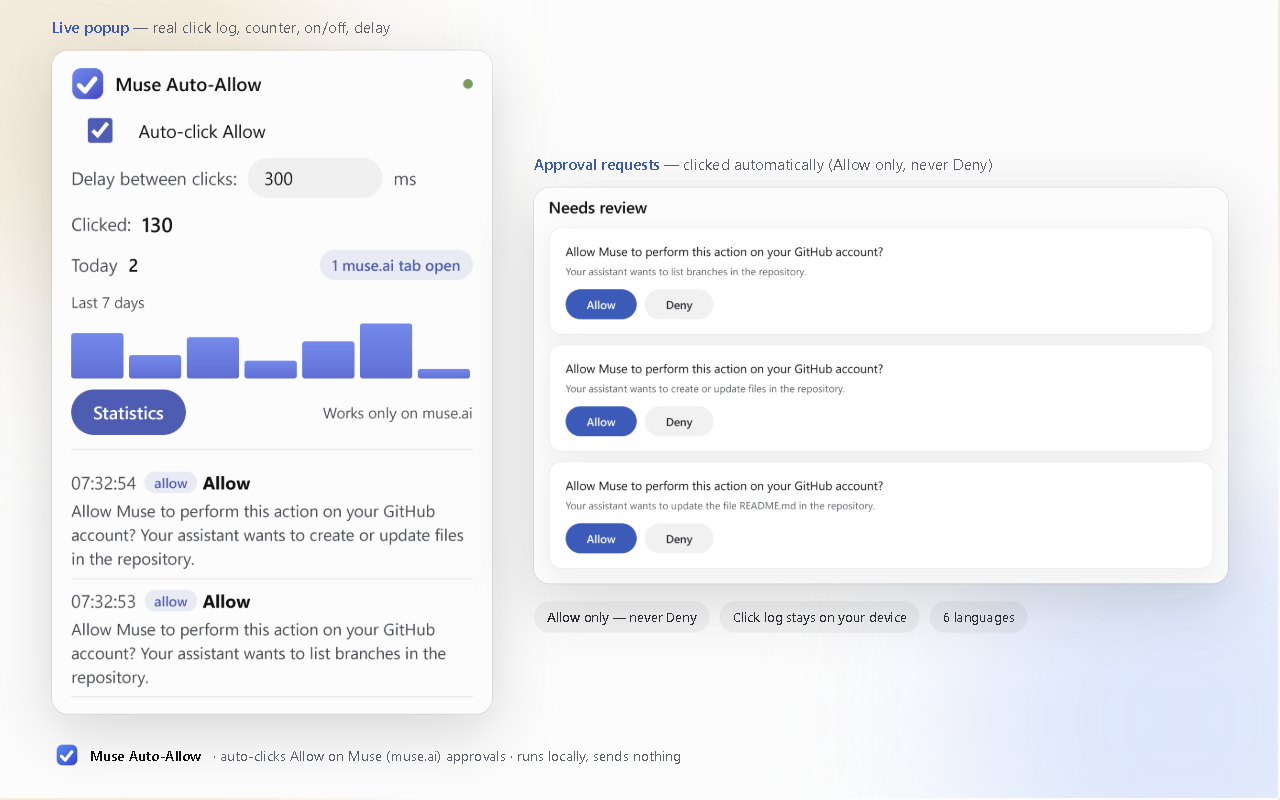
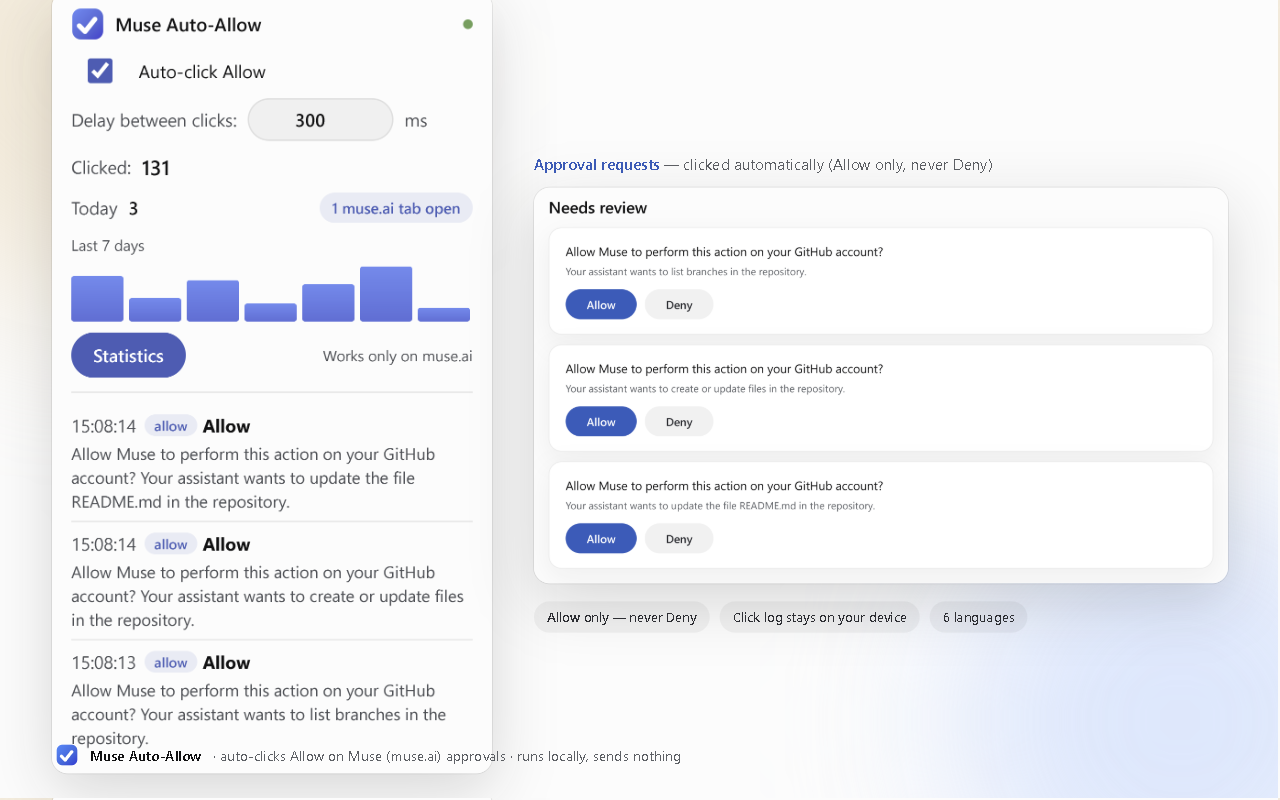
polish(v1.5.0): store-spec screenshot3 stage (1280x800), two-zone showcase marquee, popup micro-fixes + LISTING refresh
- screenshot3-popup.png recomposed as a 1280x800 stage shot (was 680x1964 portrait, failed CWS spec)
- marquee1400x560 redesigned two-zone (copy left, product mini-card right); all 6 store assets now exact-spec
- popup: last log row border removed, word-boundary truncation, delay input affordance (border + centered bold)
- LISTING.md: version 1.5.0 refs + full asset table + neutral demo-data policy

Changed region(s): [[0.0312, 0.0, 0.375, 0.9375], [0.25, 0.25, 0.375, 0.2812], [0.2188, 0.125, 0.25, 0.1562]]

diff --git a/assets/marquee.html b/assets/marquee.html
@@ -5,35 +5,76 @@
 <style>
   html, body { margin: 0; width: 1400px; height: 560px; overflow: hidden; background: #fcfcfc;
                color: #111112; font-family: "Optimistic", "optimisticAI", -apple-system, BlinkMacSystemFont, "Segoe UI", system-ui, sans-serif; }
-  .blob { position: absolute; border-radius: 50%; filter: blur(70px); }
-  .b1 { width: 520px; height: 520px; background: #f3d9b4; left: -160px; top: -200px; opacity: .5; }
-  .b2 { width: 500px; height: 500px; background: #cfe2ff; right: -160px; bottom: -220px; opacity: .8; }
-  .wrap { position: relative; height: 100%; display: flex; flex-direction: column; align-items: center;
-          justify-content: center; gap: 0; text-align: center; }
-  .tile { width: 124px; height: 124px; border-radius: 32px; box-shadow: 0 14px 40px rgba(0,64,220,.18); }
-  h1 { margin: 22px 0 0; font-size: 52px; font-weight: 500; letter-spacing: -0.015em; }
-  p { margin: 12px 0 0; color: #4a4e54; font-size: 20px; }
-  .chips { display: flex; gap: 12px; margin-top: 26px; }
-  .chip { background: rgba(17,17,18,.07); color: #2c2e33; font-size: 15px; font-weight: 500;
-          padding: 9px 18px; border-radius: 999px; }
+  .blob { position: absolute; border-radius: 50%; filter: blur(80px); }
+  .b1 { width: 560px; height: 560px; background: #f3d9b4; left: -190px; top: -240px; opacity: .5; }
+  .b2 { width: 560px; height: 560px; background: #cfe2ff; right: -170px; bottom: -260px; opacity: .85; }
+  .wrap { position: relative; height: 100%; display: flex; align-items: center; gap: 72px;
+          padding: 0 120px; box-sizing: border-box; }
+  .copy { flex: 1 1 auto; min-width: 0; }
+  .tile { width: 112px; height: 112px; border-radius: 28px; box-shadow: 0 14px 40px rgba(0,64,220,.20); }
+  h1 { margin: 26px 0 0; font-size: 58px; font-weight: 500; letter-spacing: -0.015em; }
+  p { margin: 14px 0 0; color: #3c4046; font-size: 21px; }
+  .chips { display: flex; gap: 12px; margin-top: 28px; flex-wrap: wrap; }
+  .chip { background: rgba(17,17,18,.08); color: #232527; font-size: 16px; font-weight: 500;
+          padding: 10px 20px; border-radius: 999px; border: 1px solid rgba(17,17,18,.12); }
+  .card { flex: 0 0 400px; background: #fff; border-radius: 20px; padding: 20px 22px 22px;
+          box-shadow: 0 24px 70px rgba(17,17,18,.16), 0 0 0 1px rgba(17,17,18,.07); }
+  .chead { display: flex; align-items: center; gap: 10px; }
+  .chead .mini { width: 34px; height: 34px; border-radius: 9px; }
+  .chead b { font-size: 15px; font-weight: 600; }
+  .dot { margin-left: auto; width: 9px; height: 9px; border-radius: 50%; background: #31a24c; }
+  .crow { display: flex; align-items: center; gap: 9px; margin-top: 16px; font-size: 13px; color: #3c4046; }
+  .cbx { width: 30px; height: 17px; border-radius: 999px; background: #0064e0; position: relative; flex: 0 0 auto; }
+  .cbx::after { content: ""; position: absolute; right: 2px; top: 2px; width: 13px; height: 13px; border-radius: 50%; background: #fff; }
+  .clog { margin-top: 14px; border-top: 1px solid rgba(17,17,18,.10); }
+  .cli { display: flex; align-items: baseline; gap: 8px; padding: 9px 0;
+         border-bottom: 1px solid rgba(17,17,18,.08); font-size: 12.5px; }
+  .cli:last-child { border-bottom: 0; }
+  .cli .t { color: #6a6e74; font-variant-numeric: tabular-nums; }
+  .pill { background: rgba(0,100,224,.14); color: #0047a3; font-size: 11px; font-weight: 600;
+          padding: 2px 8px; border-radius: 999px; }
+  .cli .ctx { color: #3c4046; overflow: hidden; text-overflow: ellipsis; white-space: nowrap;
+              flex: 1 1 auto; min-width: 0; }
+  .cbtn { display: inline-block; margin-top: 16px; background: #005abf; color: #fff; font-size: 13px;
+          font-weight: 600; padding: 8px 18px; border-radius: 999px; }
 </style>
 </head>
 <body>
   <div class="blob b1"></div><div class="blob b2"></div>
   <div class="wrap">
-    <svg class="tile" viewBox="0 0 512 512" xmlns="http://www.w3.org/2000/svg">
-      <defs><linearGradient id="bg" x1="72" y1="60" x2="452" y2="464" gradientUnits="userSpaceOnUse">
-        <stop offset="0" stop-color="#0082FB"/><stop offset="0.62" stop-color="#0064E0"/><stop offset="1" stop-color="#0040DC"/>
-      </linearGradient></defs>
-      <rect x="16" y="16" width="480" height="480" rx="133" fill="url(#bg)"/>
-      <path d="M118 284 L208 374 L362 182" fill="none" stroke="#fff" stroke-width="70" stroke-linecap="round" stroke-linejoin="round"/>
-    </svg>
-    <h1>Muse Auto-Allow</h1>
-    <p>Approvals on autopilot &mdash; every Allow, instantly. Local-only, encrypted at rest.</p>
-    <div class="chips">
-      <span class="chip">Allow only &mdash; never Deny</span>
-      <span class="chip">Runs locally, sends nothing</span>
-      <span class="chip">6 languages</span>
+    <div class="copy">
+      <svg class="tile" viewBox="0 0 512 512" xmlns="http://www.w3.org/2000/svg">
+        <defs><linearGradient id="bg" x1="72" y1="60" x2="452" y2="464" gradientUnits="userSpaceOnUse">
+          <stop offset="0" stop-color="#0082FB"/><stop offset="0.62" stop-color="#0064E0"/><stop offset="1" stop-color="#0040DC"/>
+        </linearGradient></defs>
+        <rect x="16" y="16" width="480" height="480" rx="133" fill="url(#bg)"/>
+        <path d="M118 284 L208 374 L362 182" fill="none" stroke="#fff" stroke-width="70" stroke-linecap="round" stroke-linejoin="round"/>
+      </svg>
+      <h1>Muse Auto-Allow</h1>
+      <p>Approvals on autopilot &mdash; every Allow, instantly.</p>
+      <div class="chips">
+        <span class="chip">Allow only &mdash; never Deny</span>
+        <span class="chip">Local-only, sends nothing</span>
+        <span class="chip">6 UI languages</span>
+      </div>
+    </div>
+    <div class="card">
+      <div class="chead">
+        <svg class="mini" viewBox="0 0 512 512" xmlns="http://www.w3.org/2000/svg">
+          <defs><linearGradient id="bg2" x1="72" y1="60" x2="452" y2="464" gradientUnits="userSpaceOnUse">
+            <stop offset="0" stop-color="#0082FB"/><stop offset="0.62" stop-color="#0064E0"/><stop offset="1" stop-color="#0040DC"/>
+          </linearGradient></defs>
+          <rect x="16" y="16" width="480" height="480" rx="133" fill="url(#bg2)"/>
+          <path d="M118 284 L208 374 L362 182" fill="none" stroke="#fff" stroke-width="70" stroke-linecap="round" stroke-linejoin="round"/>
+        </svg>
+        <b>Muse Auto-Allow</b>
+      </div>
+      <div class="crow"><span class="cbx"></span>Auto-click Allow</div>
+      <div class="clog">
+        <div class="cli"><span class="t">15:01</span><span class="pill">allow</span><span class="ctx">Approved pull request read &mdash; demo-project</span></div>
+        <div class="cli"><span class="t">14:57</span><span class="pill">allow</span><span class="ctx">Approved branch create &mdash; sample-app</span></div>
+      </div>
+      <span class="cbtn">Statistics</span>
     </div>
   </div>
 </body>

diff --git a/extension/popup.html b/extension/popup.html
@@ -34,13 +34,14 @@
   .row { display: flex; align-items: center; gap: 8px; margin: 8px 0; }
   label.sw { display: flex; align-items: center; gap: 8px; cursor: pointer; user-select: none; }
   input[type=checkbox] { width: 34px; height: 18px; accent-color: var(--blue); cursor: pointer; }
-  input[type=number] { width: 74px; background: var(--fill); color: var(--ink); border: 0; border-radius: 999px;
-                       padding: 5px 12px; font: inherit; }
+  input[type=number] { width: 80px; background: var(--fill); color: var(--ink); border: 1px solid var(--line); border-radius: 999px;
+                       padding: 5px 12px; font: inherit; font-weight: 500; text-align: center; }
   .muted { color: var(--muted); }
   b.count { color: var(--ink); font-size: 15px; font-weight: 500; display: inline-block; transition: transform .18s ease; }
   b.count.pop { transform: scale(1.25); }
   .log { margin-top: 10px; border-top: 1px solid var(--line); padding-top: 8px; max-height: 220px; overflow: auto; }
   .item { padding: 6px 0; border-bottom: 1px solid var(--line); animation: slidein .22s ease; }
+  .item:last-child { border-bottom: 0; }
   @keyframes slidein { from { opacity: 0; transform: translateY(-4px); } to { opacity: 1; transform: none; } }
   .item .t { color: var(--muted); font-variant-numeric: tabular-nums; margin-right: 6px; }
   .item .c { color: var(--muted); font-size: 12px; margin-top: 2px; }

diff --git a/extension/popup.js b/extension/popup.js
@@ -57,7 +57,8 @@ async function renderLog(log) {
   $('log').innerHTML = items.length
     ? items.map(({ e, plain }) => {
         const k = e.kind || 'allow';
-        const ctxS = plain.length > 170 ? plain.slice(0, 170) + '…' : plain;
+        let ctxS = plain;
+        if (ctxS.length > 170) { ctxS = ctxS.slice(0, 170); const sp = ctxS.lastIndexOf(' '); if (sp > 130) ctxS = ctxS.slice(0, sp); ctxS += '…'; }
         const lbl = String(e.label || '');
         const lblS = lbl.length > 40 ? lbl.slice(0, 40) + '…' : lbl;
         return '<div class="item"><span class="t" title="' + esc(localFull(e.at)) + '">' + esc(localTime(e.at)) + '</span>' +

diff --git a/extension/content.js b/extension/content.js
@@ -1,4 +1,4 @@
-// Muse Auto-Allow — content script (v1.2.0, security-hardened).
+// Muse Auto-Allow — content script (v1.5.0, security-hardened — redteam v1–v3).
 // Automatically clicks "Allow" on Muse (muse.ai) approval requests.
 //
 // Click paths, in priority order:

diff --git a/store/LISTING.md b/store/LISTING.md
@@ -13,9 +13,9 @@ provided in all six supported languages (en, vi, zh_CN, ja, ko, es). Values mark
 | Item name | **Muse Auto-Allow** |
 | Category | **Productivity** |
 | Default language | English (en) |
-| Version | 1.2.0 |
+| Version | 1.5.0 |
 | Manifest version | Manifest V3 |
-| Extension package | `dist/muse-auto-allow-v1.2.0.zip` |
+| Extension package | `dist/muse-auto-allow-v1.5.0.zip` |
 | License | MIT © 2026 BlueSkyz Labs |
 | Homepage / support URL | `TODO: fill before submit` |
 | Privacy policy URL | `TODO: fill before submit` (host `store/PRIVACY.md` and paste the public link) |
@@ -317,7 +317,7 @@ The extension needs none of them.
 Compliance notes for this declaration:
 - Manifest V3, no `content_security_policy` relaxation.
 - No analytics SDK, no CDN, no update endpoint.
-- `dist/muse-auto-allow-v1.2.0.zip` contains only static files with `manifest.json` at the
+- `dist/muse-auto-allow-v1.5.0.zip` contains only static files with `manifest.json` at the
   zip root.
 
 ---
@@ -376,12 +376,17 @@ The dashboard requires these images. Provide them at the exact sizes below.
 | Asset | Requirement | Source in this repo | Status |
 |---|---|---|---|
 | Extension icon | 128×128 px PNG | `extension/icons/icon128.png` | ✅ present |
-| Screenshot | 1280×800 px PNG (up to 5) | `store/screenshot1.png` | ✅ present (verified 1280×800) |
+| Screenshots | 1280×800 px PNG (up to 5) | `store/screenshot1.png` (live runtime capture), `store/screenshot2-stats.png` (Statistics), `store/screenshot3-popup.png` (popup on stage), `store/screenshot4-overview.png` (designed overview) | ✅ 4 present, all verified 1280×800 |
 | Small promo tile | 440×280 px PNG | `store/promo440x280.png` | ✅ present (verified 440×280) |
-| Marquee promo tile | 1400×560 px (optional) | — | optional, not required |
+| Marquee promo tile | 1400×560 px (optional) | `store/marquee1400x560.png` | ✅ present (verified 1400×560) |
+
+All showcase images use strictly fictional demo data (Example Org, demo-project,
+sample-app, web-starter, notes-app, files.example.com) — never real projects or personal
+data. Full inventory + regenerate commands: `store/SHOWCASE.md`.
 
 Upload steps: **Store listing → Graphic assets** → upload the icon (also validated by
-Chrome from the package), the 1280×800 screenshot, and the 440×280 promo tile.
+Chrome from the package), the four 1280×800 screenshots, the 440×280 promo tile and the
+1400×560 marquee.
 
 Screenshot guidance (verify before submit that the uploaded images match these sizes): show the real Muse approval card with the extension's popup open
 (click counter + log visible). Do **not** use a mockup that implies the extension does
